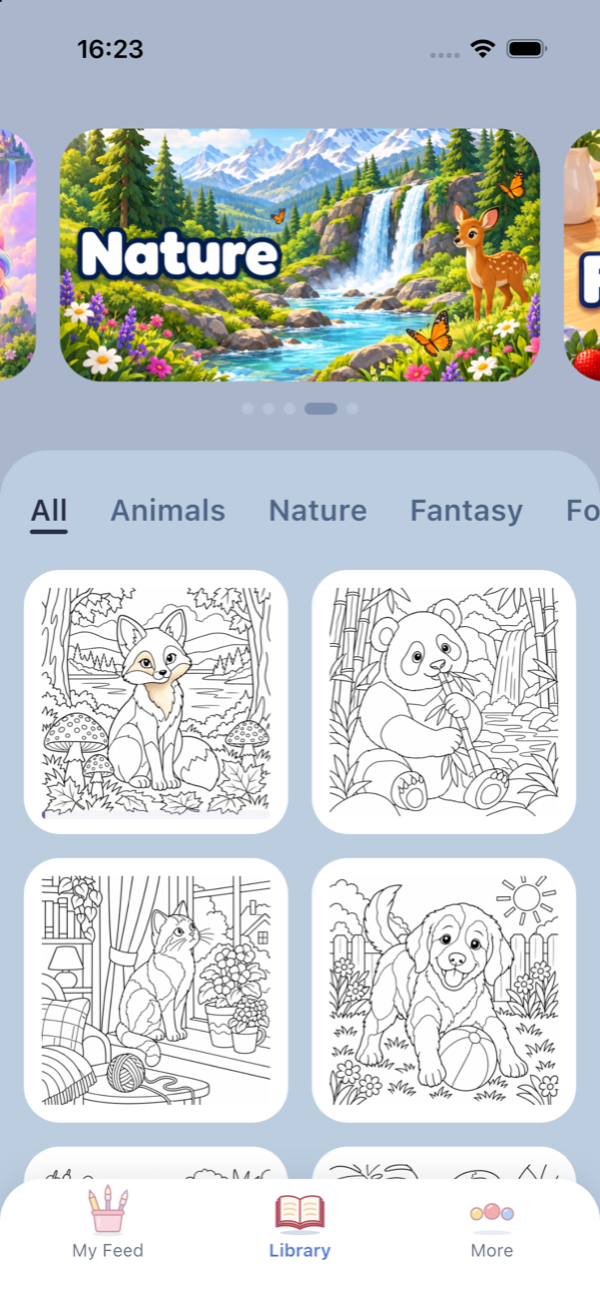
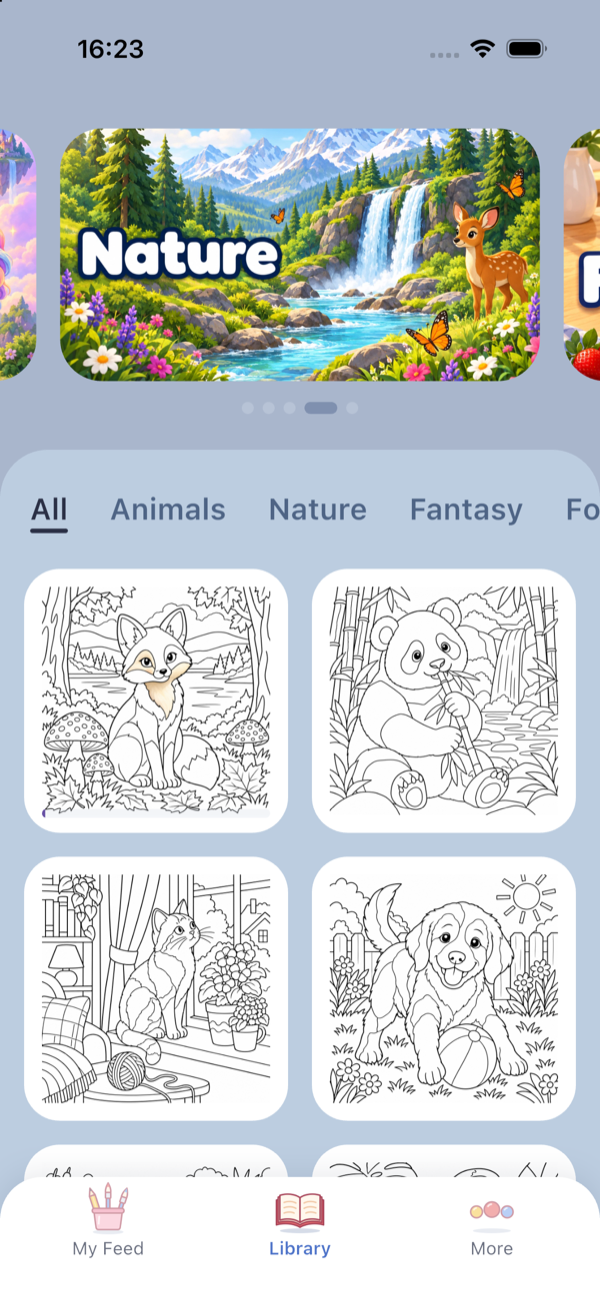
Show colored pictures in the README screenshots
The README now shows the library untouched, the cities colored and a
finished ramen picture.

diff --git a/README.md b/README.md
@@ -3,8 +3,9 @@
 Color-by-number prototype in Flutter.
 
 <p>
-  <img src="docs/screenshots/library.png" width="300" alt="Library">
-  <img src="docs/screenshots/coloring.png" width="300" alt="Coloring a picture">
+  <img src="docs/screenshots/library.png" width="260" alt="Library">
+  <img src="docs/screenshots/cities.png" width="260" alt="Colored cities">
+  <img src="docs/screenshots/ramen.png" width="260" alt="A colored picture">
 </p>
 
 ## Pictures
